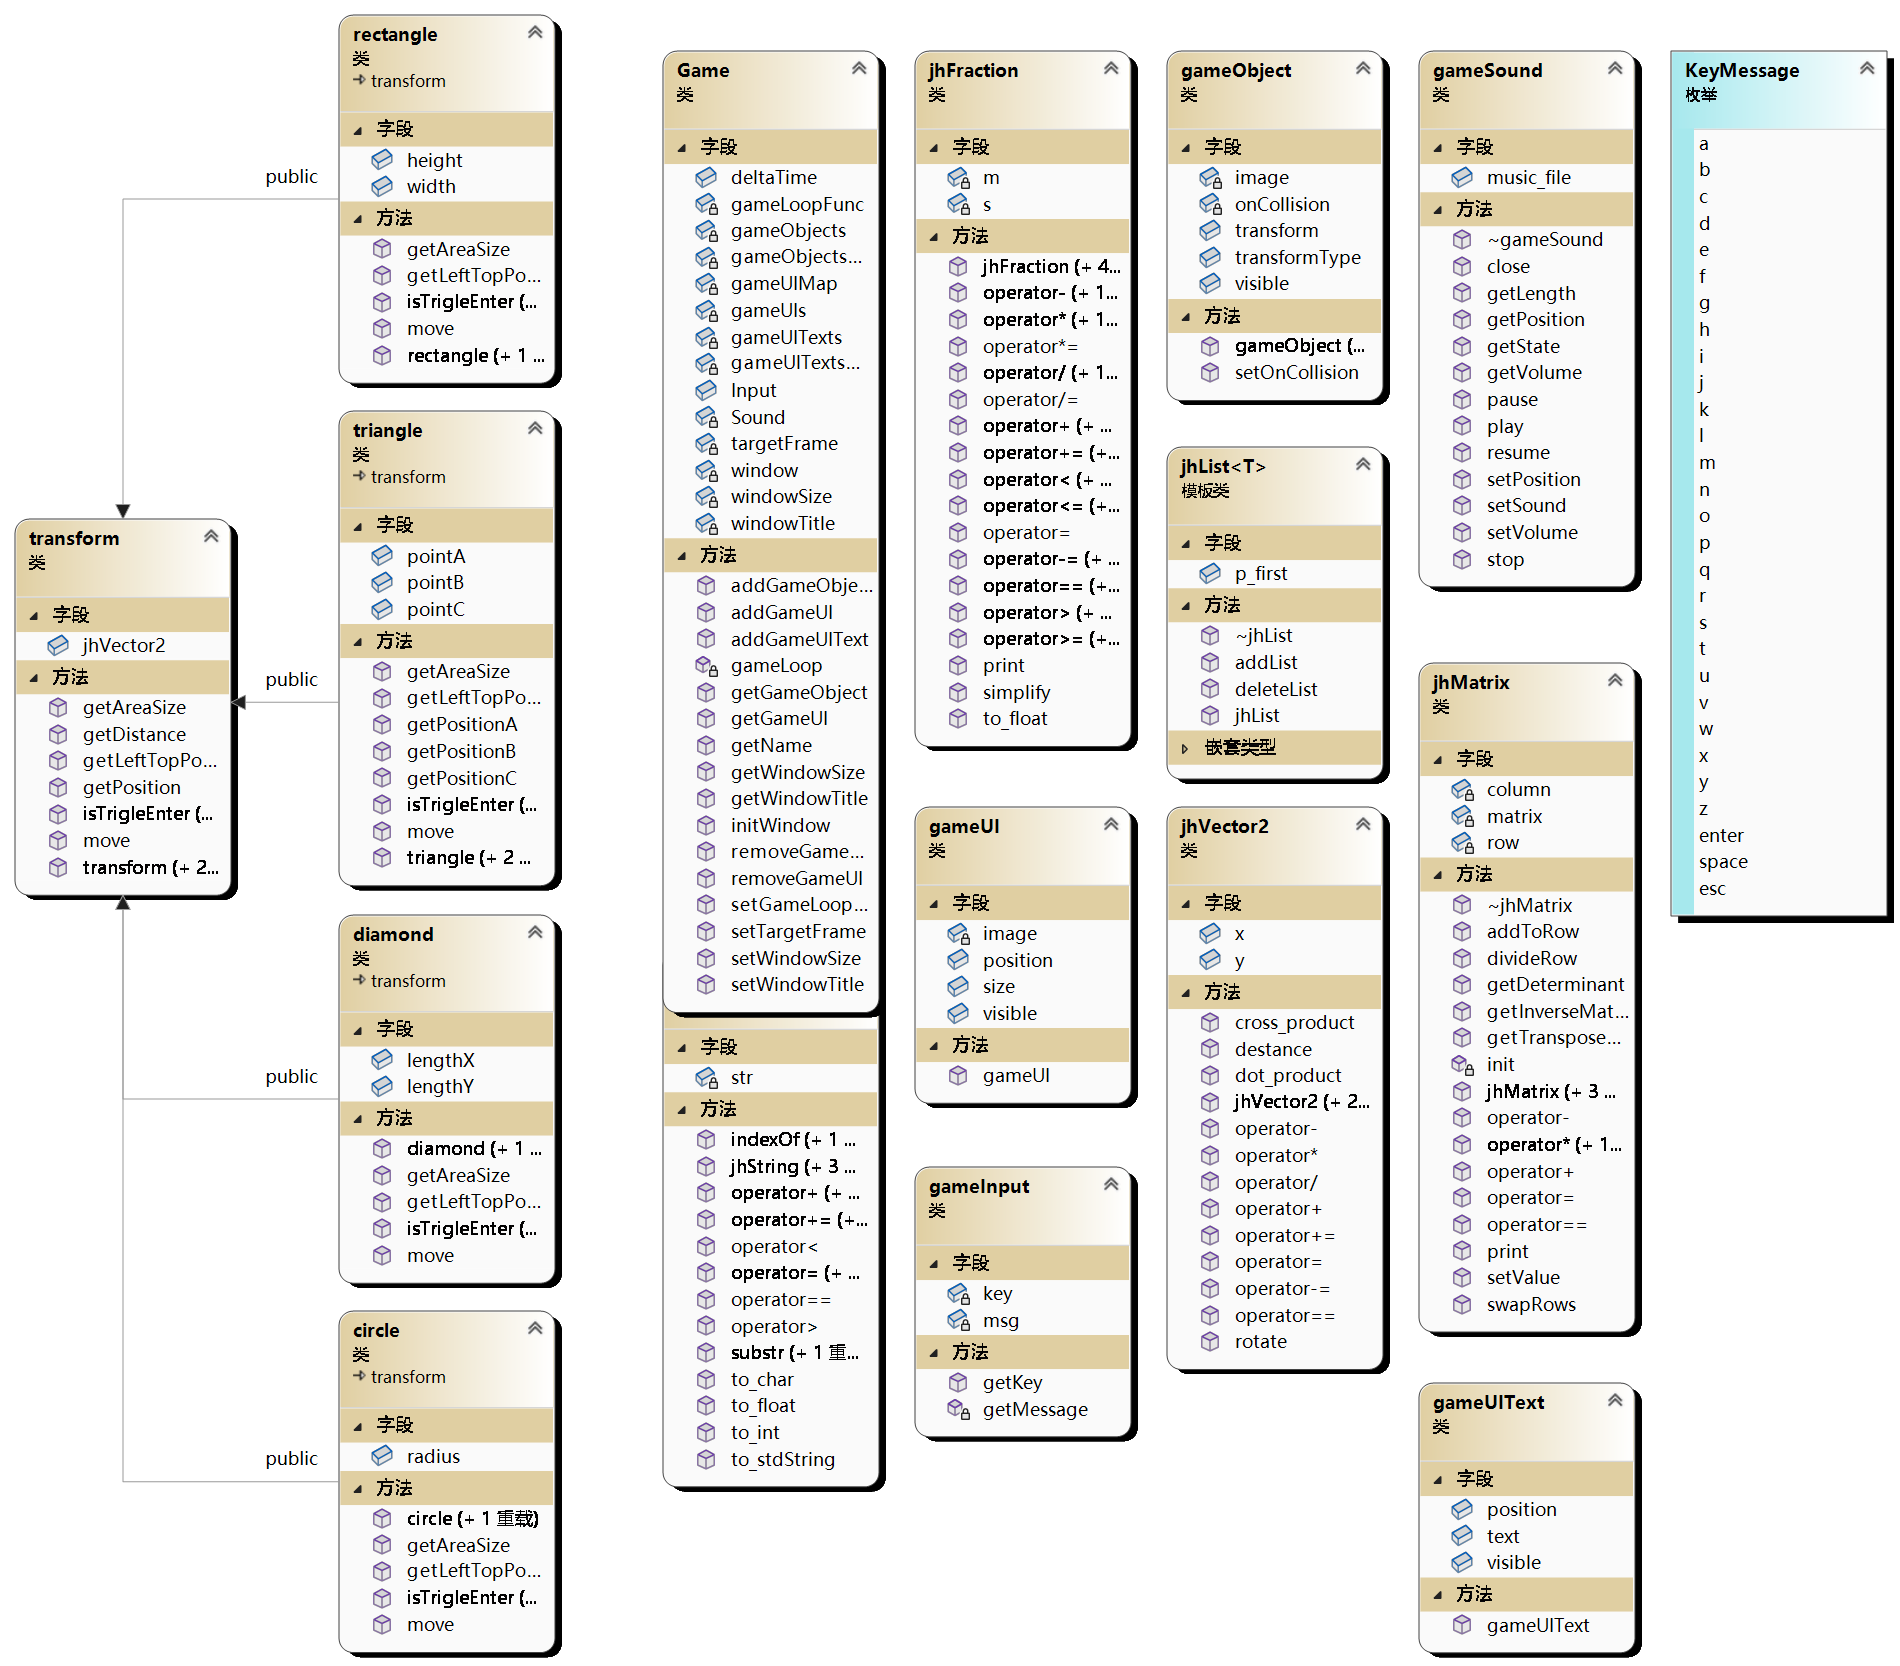
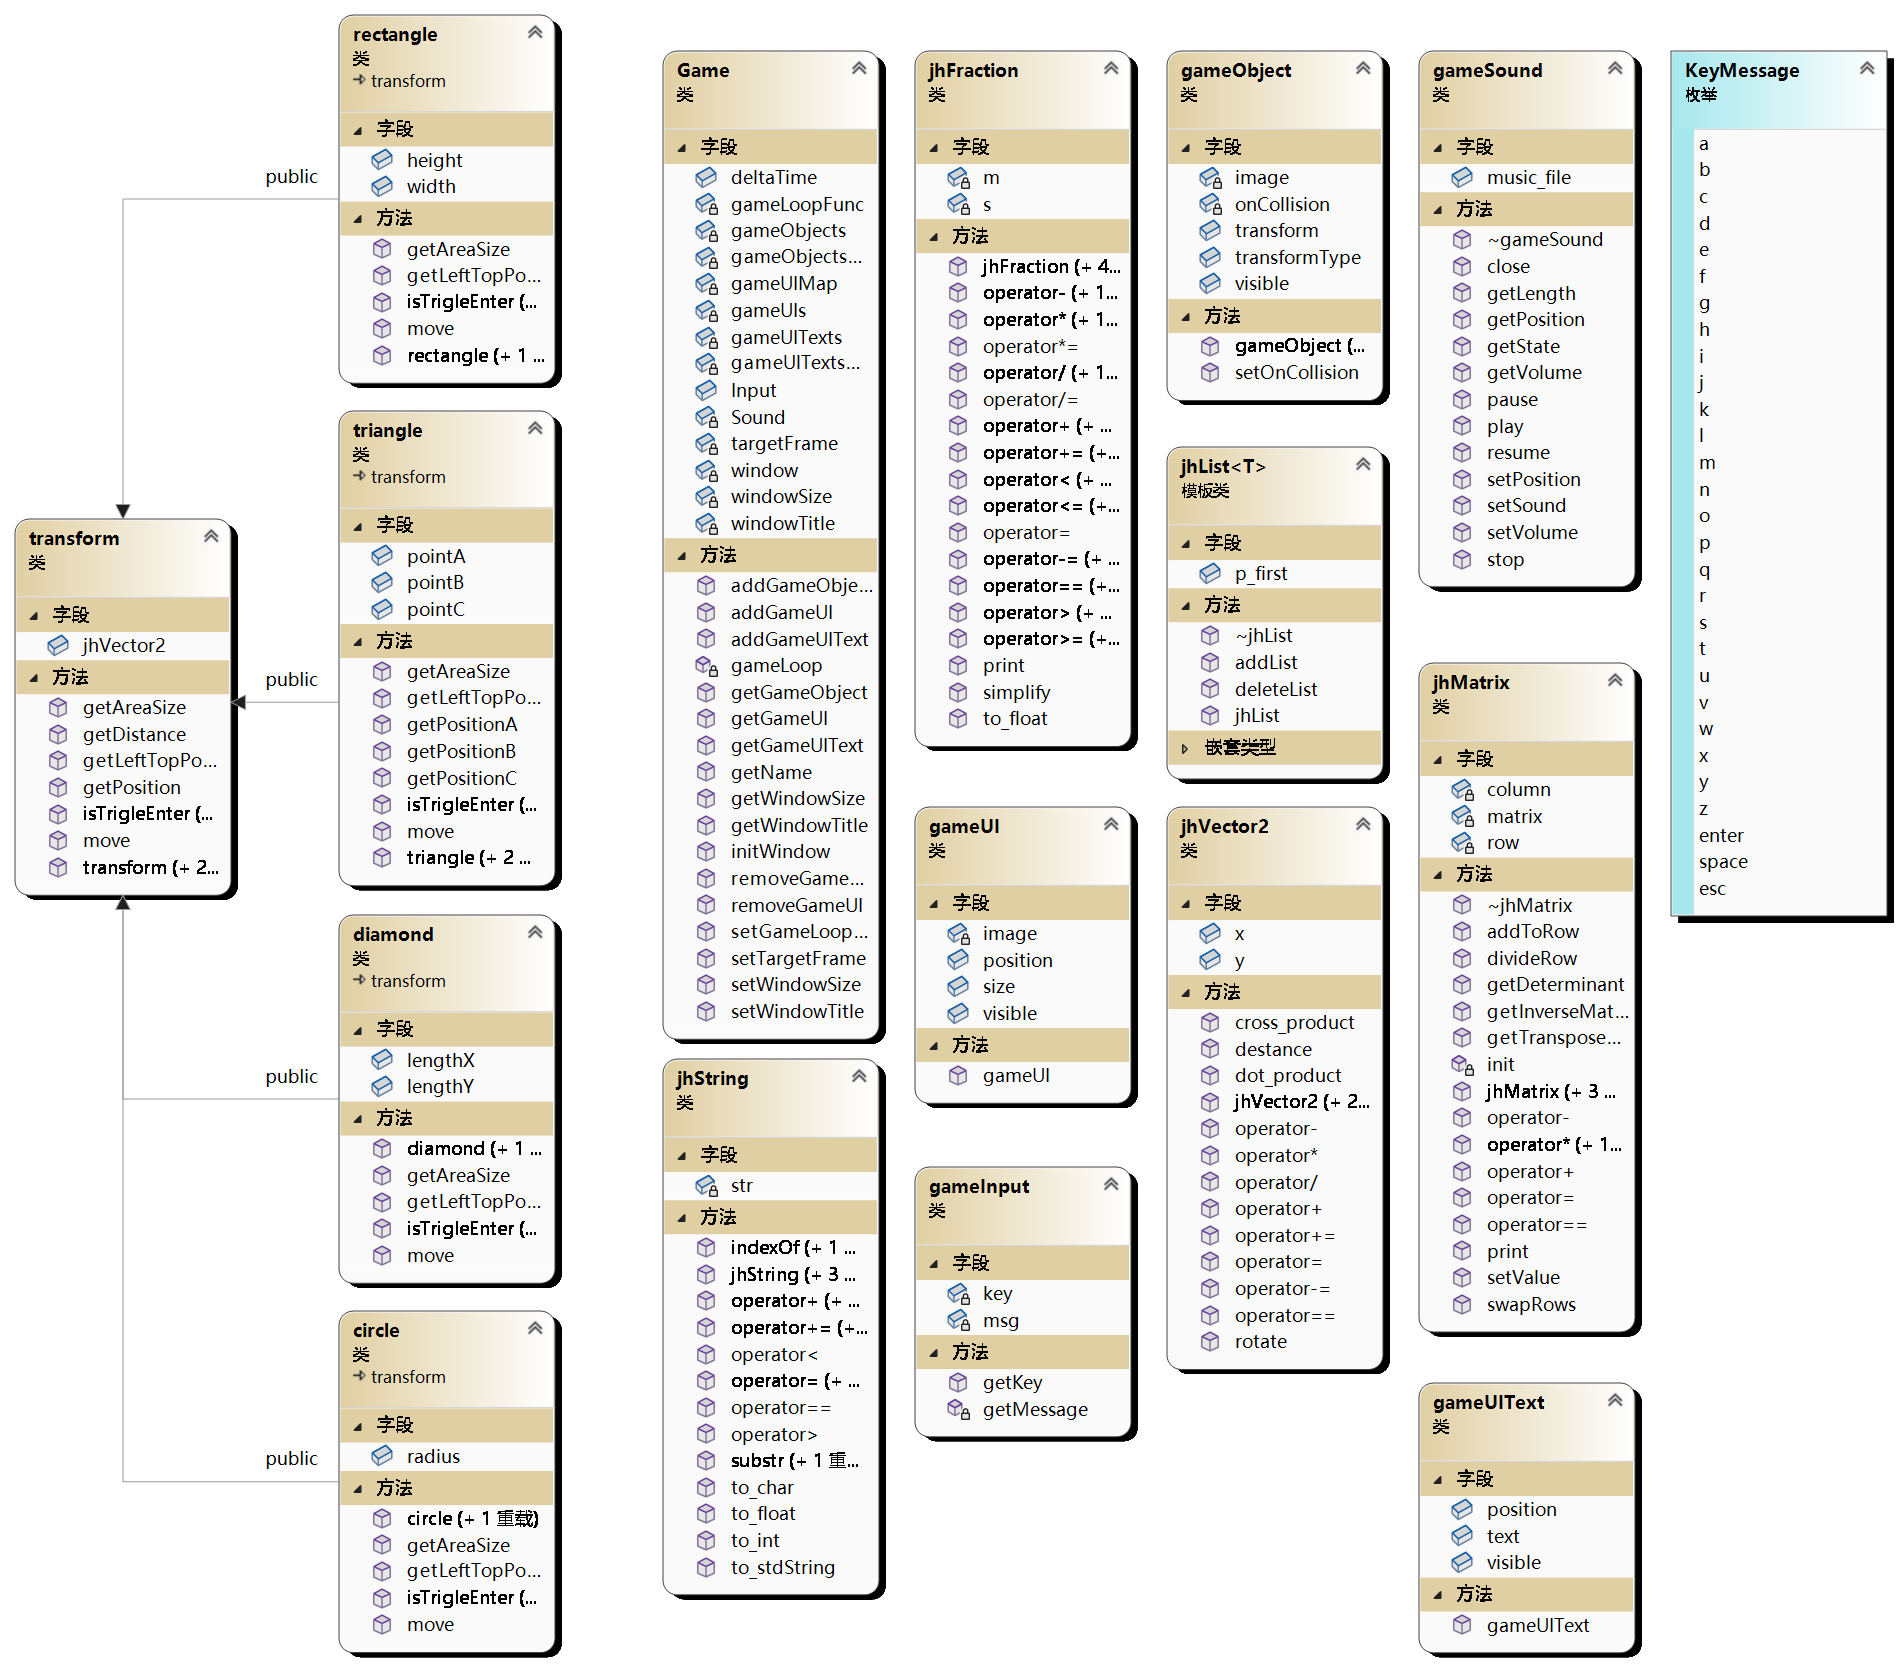
Add files via upload

Changed region(s): [[0.3416, 0.437, 0.4658, 0.9676]]

diff --git a/JHMG engine.cpp b/JHMG engine.cpp
@@ -311,7 +311,7 @@ void Game::removeGameObject(jhString name)
 
 gameObject* Game::getGameObject(jhString name)
 {
-	return gameObjectsMap[name];
+	return this->gameObjectsMap[name];
 }
 
 jhString Game::getName(gameObject* gameObject)
@@ -362,7 +362,12 @@ void Game::removeGameUI(jhString name)
 
 gameUI* Game::getGameUI(jhString name)
 {
-	return gameUIMap[name];
+	return this->gameUIMap[name];
+}
+
+gameUIText* Game::getGameUIText(jhString name)
+{
+	return this->gameUITextsMap[name];
 }
 
 void gameInput::getMessage()
